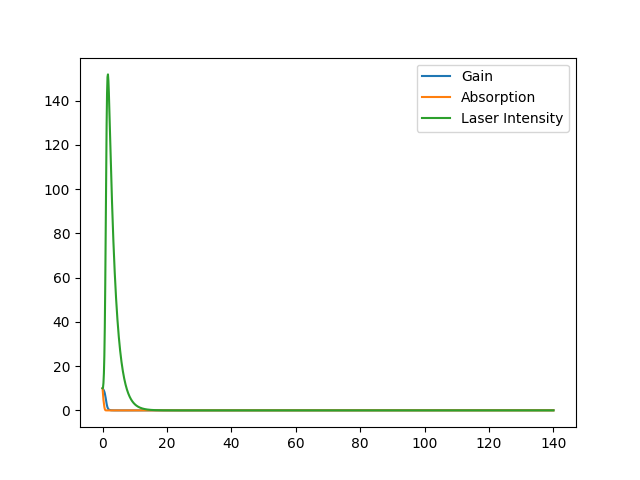
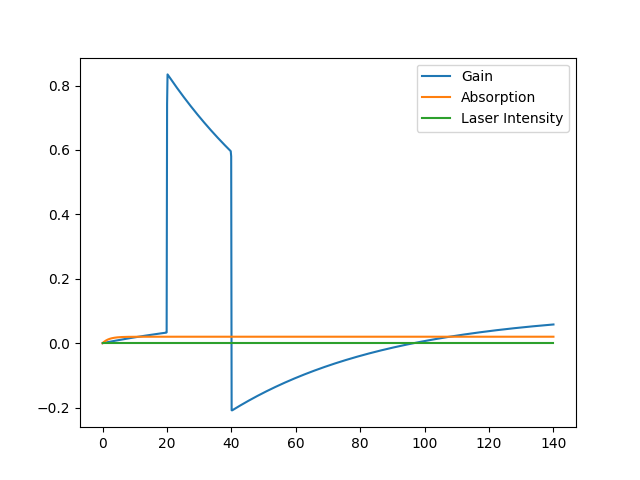
forcing term

diff --git a/laser/yamada.py b/laser/yamada.py
@@ -10,17 +10,28 @@ class Yamada():
     """
     Generic Yamada model laser
     """
-    def __init__(self, params: tuple, initial_state=(0, 0, 0), solver=diffrax.Tsit5()):
+    def __init__(self, params: tuple, initial_state=(0, 0, 0), solver=diffrax.Tsit5(), radius=0.001):
         self.params = params
         self.initial_state = initial_state
         self.solver = solver
-        self.name = "yamada"  
+        self.name = "yamada"
+        self.spike_radius = radius
     def simple_yamada(self, inputs, sim_step):
+        def delta(t):        
+            return jnp.exp(-jnp.pow(t, 2)/(2*self.spike_radius))
+        def force(t, args):
+            A, B, a, y_G, y_Q, y_I, eps, spikes = args
+            spike = 0.0
+            if (spikes and len(spikes) == 0):
+                return 0.0
+            for A, i in spikes:
+                spike += A*delta(t - i)
+            return spike
         def f(t, y, args):
             nonlocal inputs, sim_step
             G, Q, I = y
-            A, B, a, y_G, y_Q, y_I = args
-            d_G = y_G * (A - G - G * I)
+            A, B, a, y_G, y_Q, y_I, eps, spikes = args
+            d_G = y_G * (A - G - G * I) + force(t, args)
             d_Q = y_Q * (B - Q - a * Q * I)
             d_I = y_I * (G - Q - 1) * I
             d_y = d_G, d_Q, d_I
@@ -56,6 +67,7 @@ class Yamada():
         plt.show()
 
 if __name__ == "__main__":
-    yamada = Yamada(params=(0.1, 0.02, 0.4, 0.02, 0.5, 0.5), initial_state=(10., 10., 10.))
+    spikes = ((10, 20), (-10, 40))
+    yamada = Yamada(params=(0.1, 0.02, 0.4, 0.02, 0.5, 0.5, 0, spikes), initial_state=(0., 0., 0.))
     yamada.sim(None, 0, 140, .1)
     yamada.plot()
